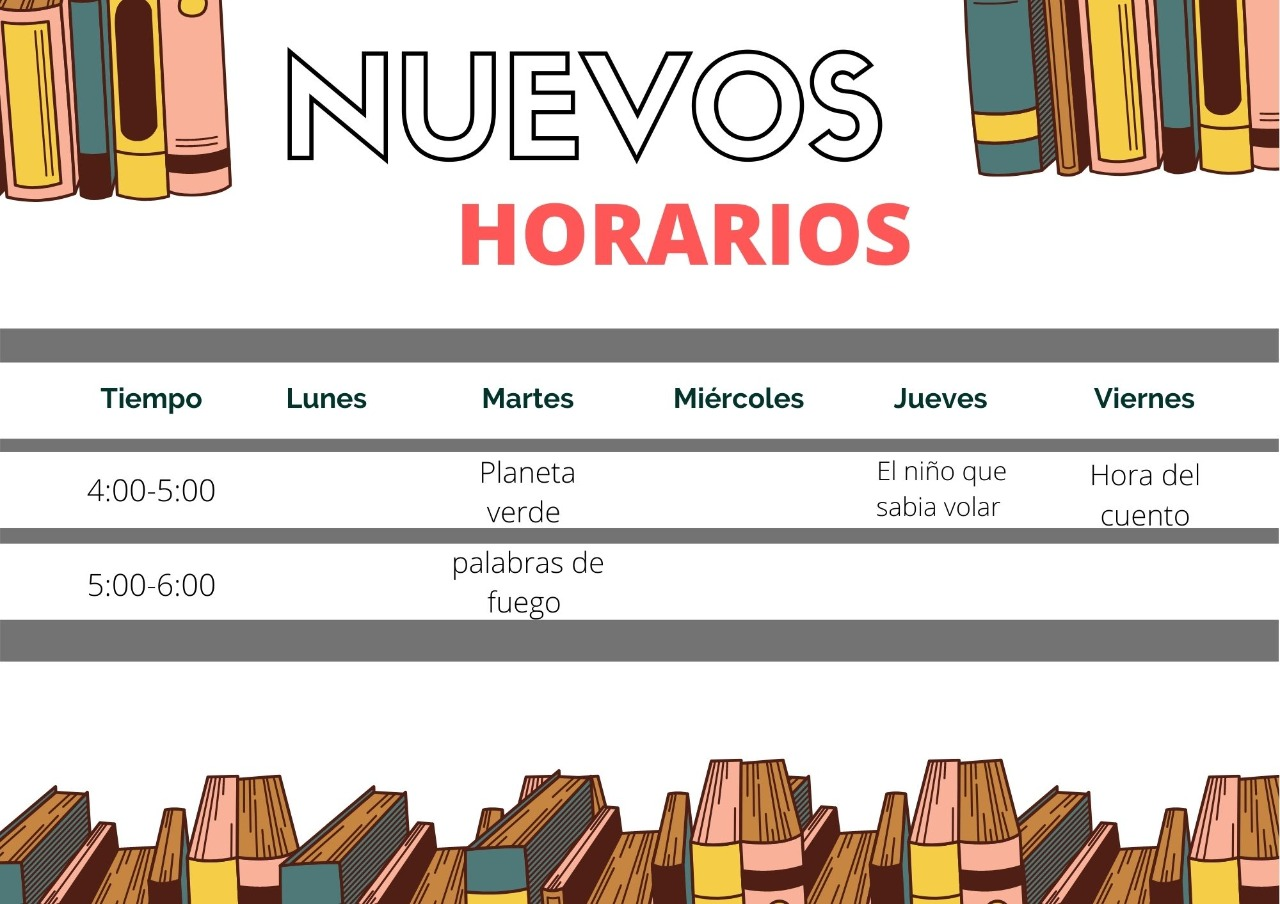
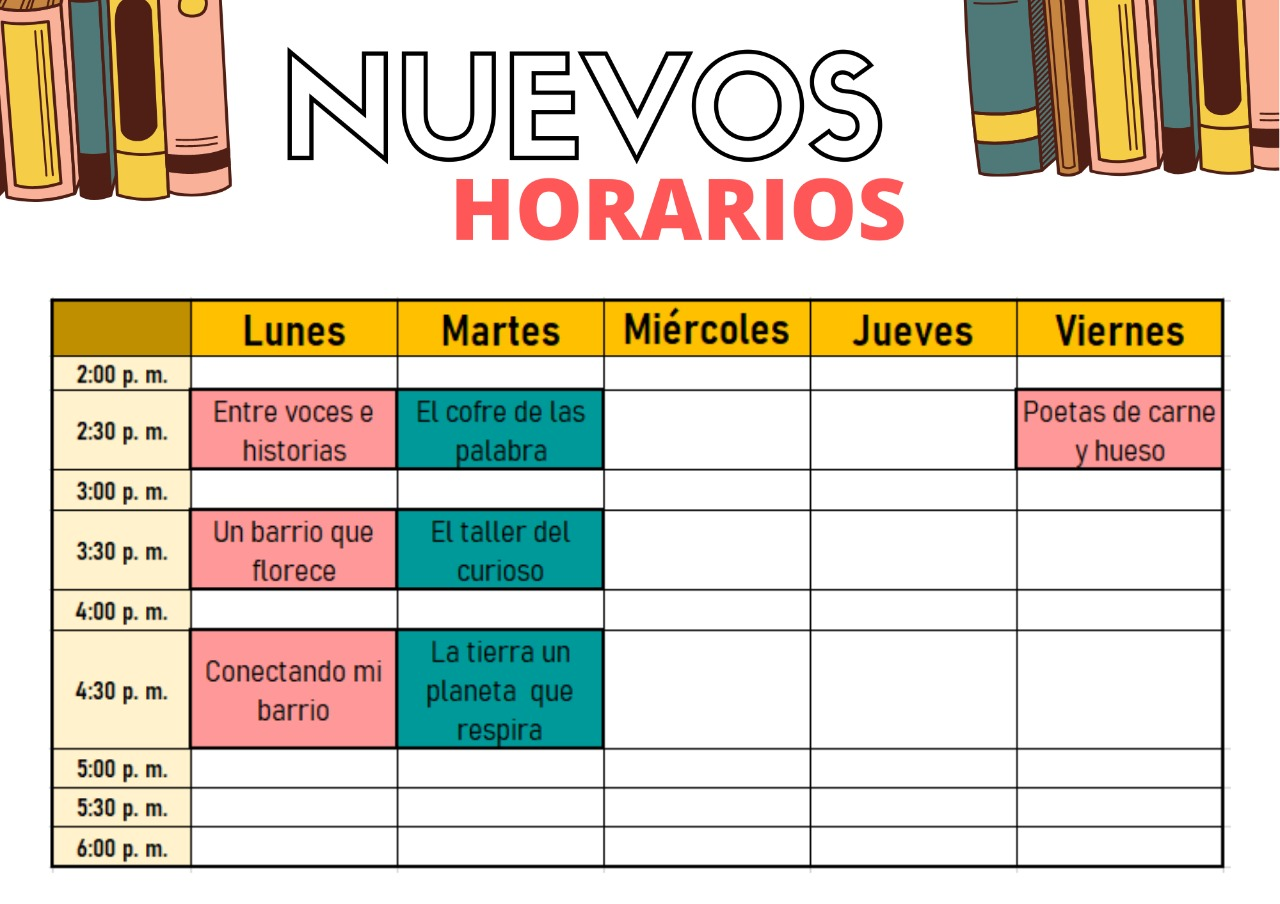
Agrega nuevos programas

diff --git a/index.html b/index.html
@@ -111,7 +111,7 @@
 			<!-- Modal Programas -->
 			<div class="modal-content">
 
-				<img src="images/programasActualizado.jpeg" id="programSection">
+				<img src="#" id="programSection">
 
 
 			</div>
@@ -278,12 +278,50 @@
 							<hr>
 						</div>
 					</div>
-
 				</div>
 			</div>
 		</div>
 
+		<div class="container">
+			<div class="card">
+				<div class="card-image waves-effect waves-block waves-light">
+					<img class="activator" src="images/nuevosProgramas.jpeg">
+				</div>
+				<div class="card-content">
+					<span class="card-title activator grey-text text-darken-4">Inscribete Aqui<i
+							class="material-icons right">more_vert</i></span>
+					<p><a href="#"></a></p>
+				</div>
+				<div class="card-reveal">
+					<span class="card-title grey-text text-darken-4">Nuevos Programas <i
+							class="material-icons right">close</i></span>
+					<div class="section">
+						<h6>EL cofre de las palabras</h6>
+						<p>Martes| 2:30 a 3:30 -- <a href="https://forms.gle/iaryJUek6Mv6QBNt7"> INSCRIBIRME</a></p>
 
+						<h6>EL taller del curioso</h6>
+						<p>Martes| 3:30 a 4:30 -- <a href="https://forms.gle/WQ5zeWgFr1QzJii27"> INSCRIBIRME</a></p>
+
+						<h6>Conectando mi barrio</h6>
+						<p>Viernes| 2:30 a 3:30 -- <a href="https://forms.gle/xRRErTqPbjzPCFmv9"> INSCRIBIRME</a></p>
+
+						<h6>Un barrio que florece</h6>
+						<p>Viernes| 3:30 a 4:30 -- <a href="https://forms.gle/6smJ6qMFYhxbzMQZ8"> INSCRIBIRME</a></p>
+
+						<h6>Esritores de carne y hueso</h6>
+						<p>Viernes| 4:30 a 5:30 -- <a href="https://forms.gle/o2sKy87Lb424pGUn7"> INSCRIBIRME</a></p>
+
+						<h6>Ilustrando historias</h6>
+						<p>Miercoles| 2:30 a 3:45 -- <a href="https://forms.gle/FQhpmhFuYQFCenrT6"> INSCRIBIRME</a></p>
+
+						<h6>Palabras de fuego</h6>
+						<p>Jueves| 2:30 a 3:30 -- <a href="https://forms.gle/iaryJUek6Mv6QBNt7"> INSCRIBIRME</a></p>
+					</div>
+
+
+				</div>
+			</div>
+		</div>
 
 
 

diff --git a/historia.html b/historia.html
@@ -39,7 +39,7 @@
 				<div>
 					<nav class="blue z-depth-4">
 						<div class="nav-wrapper ">
-							<a href="#" data-target="mobile-demo" class="sidenav-trigger"><i
+							<a href="#mobile-demo" data-target="mobile-demo" class="sidenav-trigger"><i
 									class="material-icons">menu</i></a>
 							<ul class=" hide-on-med-and-down">
 								<li><a href="historia.html" class="fontOfNav selector">Historia</a></li>

diff --git a/assets/js/configureIndex.js b/assets/js/configureIndex.js
@@ -20,7 +20,7 @@ async function inicio() {
           configuracionBar1 = jsonConfigure.banner1;
           configuracionBar2 = jsonConfigure.banner2;
           loadConfiguration("containerBanner","estructureCard",configuracionBar1);
-          debugger
+          
          loadConfiguration("containerBanner2","estructureCard-2",configuracionBar2);
        })
        .catch(error => console.error('Error:', error));
